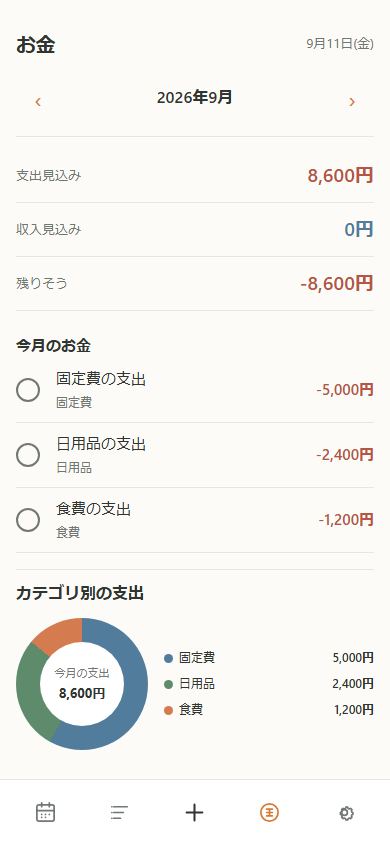
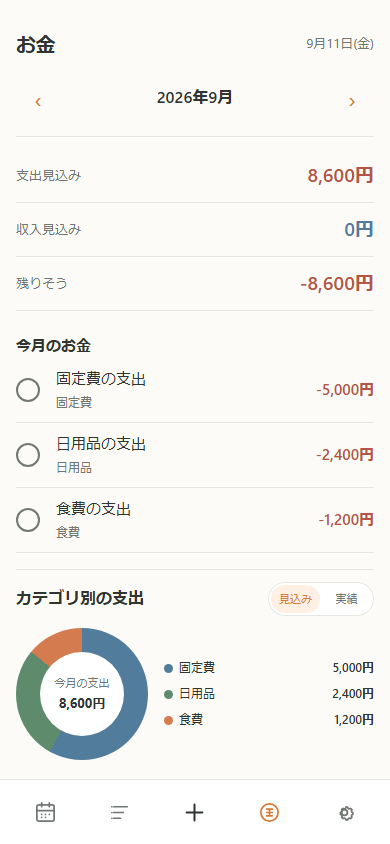
feat: add money chart forecast actual toggle

diff --git a/src/App.tsx b/src/App.tsx
@@ -525,18 +525,25 @@ function MoneyChoiceSheet({ open, title, options, onClose, onSelect }: { open: b
   return <BottomSheet open={open} title={title} onClose={onClose}><div className="event-option-sheet">{options.map((option) => <button className="event-option-sheet__option" key={option.value} onClick={() => onSelect(option.value)} type="button"><span>{option.label}</span></button>)}</div></BottomSheet>;
 }
 
-export function MoneyCategoryDonut({ occurrences }: { occurrences: MoneyItem[] }) {
-  const groups = Array.from(occurrences.filter((item) => item.type === "expense").reduce((map, item) => {
+export type MoneyChartMode = "forecast" | "actual";
+type MoneyCategoryGroup = { amount: number; color: string; colorKey: string; name: string };
+
+export const moneyCategoryGroupsFor = (occurrences: MoneyItem[], mode: MoneyChartMode = "forecast"): MoneyCategoryGroup[] => Array.from(occurrences.filter((item) => item.type === "expense" && (mode === "forecast" || item.settlementStatus === "actual" || item.settlementStatus === "estimated_actual")).reduce((map, item) => {
     const key = item.category?.id ?? item.category?.name ?? "other";
     const current = map.get(key) ?? { amount: 0, color: moneyCategoryColor(item.category), colorKey: moneyCategoryColorKey(item.category), name: item.category?.name ?? "その他" };
     current.amount += Math.abs(item.effectiveAmount ?? item.signedAmount ?? item.plannedAmount);
     map.set(key, current);
     return map;
-  }, new Map<string, { amount: number; color: string; colorKey: string; name: string }>()).values()).sort((left, right) => right.amount - left.amount);
+  }, new Map<string, MoneyCategoryGroup>()).values()).sort((left, right) => right.amount - left.amount);
+
+export function MoneyCategoryDonut({ occurrences }: { occurrences: MoneyItem[] }) {
+  const [mode, setMode] = useState<MoneyChartMode>("forecast");
+  const groups = moneyCategoryGroupsFor(occurrences, mode);
   const total = groups.reduce((sum, group) => sum + group.amount, 0);
-  if (total === 0) return <section className="money-chart-section"><h2>カテゴリ別の支出</h2><p className="empty-state">まだ支出はありません</p></section>;
+  const centerLabel = mode === "forecast" ? "今月の支出" : "確定した支出";
+  if (total === 0) return <section className="money-chart-section"><div className="money-chart-section__heading"><h2>カテゴリ別の支出</h2><div aria-label="カテゴリ別の支出表示" className="money-chart-mode-switch" role="group"><button aria-pressed={mode === "forecast"} onClick={() => setMode("forecast")} type="button">見込み</button><button aria-pressed={mode === "actual"} onClick={() => setMode("actual")} type="button">実績</button></div></div><p className="empty-state">{mode === "actual" ? "まだ確定した支出はありません" : "まだ支出はありません"}</p></section>;
   const gradient = groups.reduce<{ cursor: number; parts: string[] }>((result, group) => { const next = result.cursor + (group.amount / total) * 100; result.parts.push(`${group.color} ${result.cursor}% ${next}%`); result.cursor = next; return result; }, { cursor: 0, parts: [] }).parts.join(", ");
-  return <section className="money-chart-section"><h2>カテゴリ別の支出</h2><div className="money-chart"><div aria-label={`今月の支出 ${total.toLocaleString("ja-JP")}円`} className="money-donut" style={{ "--money-donut": `conic-gradient(${gradient})` } as CSSProperties}><div className="money-donut__label"><span>今月の支出</span><strong>{total.toLocaleString("ja-JP")}円</strong></div></div><div className="money-chart__legend">{groups.map((group) => <div key={group.name}><span className="money-chart__legend-dot" data-color-key={group.colorKey} data-testid="money-chart-legend-dot" style={{ backgroundColor: group.color }} /><span>{group.name}</span><strong>{group.amount.toLocaleString("ja-JP")}円</strong></div>)}</div></div></section>;
+  return <section className="money-chart-section"><div className="money-chart-section__heading"><h2>カテゴリ別の支出</h2><div aria-label="カテゴリ別の支出表示" className="money-chart-mode-switch" role="group"><button aria-pressed={mode === "forecast"} onClick={() => setMode("forecast")} type="button">見込み</button><button aria-pressed={mode === "actual"} onClick={() => setMode("actual")} type="button">実績</button></div></div><div className="money-chart"><div aria-label={`${centerLabel} ${total.toLocaleString("ja-JP")}円`} className="money-donut" data-mode={mode} style={{ "--money-donut": `conic-gradient(${gradient})` } as CSSProperties}><div className="money-donut__label"><span>{centerLabel}</span><strong>{total.toLocaleString("ja-JP")}円</strong></div></div><div className="money-chart__legend">{groups.map((group) => <div key={group.name}><span className="money-chart__legend-dot" data-color-key={group.colorKey} data-testid="money-chart-legend-dot" style={{ backgroundColor: group.color }} /><span>{group.name}</span><strong>{group.amount.toLocaleString("ja-JP")}円</strong></div>)}</div></div></section>;
 }
 
 export function MoneyForm({ initialDate, item, scope = "series", onCancel, onSaved, onDelete, suppressInitialRecentOpen = true }: { initialDate: string; item?: MoneyItem; scope?: EventScope; onCancel: () => void; onSaved: (item: MoneyItem) => void; onDelete?: () => void; suppressInitialRecentOpen?: boolean }) {

diff --git a/e2e/money-category-colors.spec.ts b/e2e/money-category-colors.spec.ts
@@ -22,6 +22,12 @@ async function register(page: import("@playwright/test").Page) {
 async function createExpense(page: import("@playwright/test").Page, categoryId: string, title: string, amount: number, date: string) {
   const response = await page.request.post("/api/money", { data: { type: "expense", title, plannedAmount: amount, categoryId, date, memo: null, recurrence: null } });
   expect(response.ok()).toBeTruthy();
+  return (await response.json() as { money: { id: string } }).money.id;
+}
+
+async function setActual(page: import("@playwright/test").Page, moneyId: string, date: string, amount: number) {
+  const response = await page.request.put(`/api/money/${moneyId}/occurrences/money:${moneyId}:${date}/actual`, { data: { amount } });
+  expect(response.ok()).toBeTruthy();
 }
 
 async function showMoneyChart(page: import("@playwright/test").Page) {
@@ -40,12 +46,12 @@ test("keeps Money category colors distinct and stable across UI surfaces", async
   const categories = (await categoriesResponse.json() as { categories: Array<{ id: string; name: string }> }).categories;
   const categoryId = (name: string) => categories.find((category) => category.name === name)?.id ?? (() => { throw new Error(`missing category: ${name}`); })();
 
-  await createExpense(page, categoryId("食費"), "食費の支出", 1200, date);
+  const foodId = await createExpense(page, categoryId("食費"), "食費の支出", 1200, date);
   let chart = await showMoneyChart(page);
   await expect(chart.locator(".money-chart__legend > div")).toHaveCount(1);
   await page.screenshot({ path: path.join(evidenceDir, "one-category-food-390x844.png") });
 
-  await createExpense(page, categoryId("固定費"), "固定費の支出", 5000, date);
+  const fixedId = await createExpense(page, categoryId("固定費"), "固定費の支出", 5000, date);
   await page.reload();
   chart = await showMoneyChart(page);
   await expect(chart.locator(".money-chart__legend > div")).toHaveCount(2);
@@ -75,9 +81,31 @@ test("keeps Money category colors distinct and stable across UI surfaces", async
 
   await page.getByRole("button", { name: "お金" }).last().click();
   chart = await showMoneyChart(page);
+  await chart.getByRole("button", { name: "実績" }).click();
+  await expect(chart.getByText("まだ確定した支出はありません")).toBeVisible();
+  await page.screenshot({ path: path.join(evidenceDir, "actual-empty-390x844.png") });
+
+  await setActual(page, foodId, date, 1000);
+  await setActual(page, fixedId, date, 4500);
+  await page.reload();
+  chart = await showMoneyChart(page);
+  await chart.getByRole("button", { name: "実績" }).click();
+  await expect(chart.locator(".money-donut")).toHaveAttribute("data-mode", "actual");
+  await expect(chart.locator(".money-donut")).toHaveAttribute("aria-label", "確定した支出 5,500円");
+  await expect(chart.locator(".money-chart__legend > div")).toHaveCount(2);
+  await expect(chart.locator(".money-chart__legend > div").filter({ hasText: "食費" }).locator(".money-chart__legend-dot")).toHaveAttribute("data-color-key", "orange");
+  await expect(chart.locator(".money-chart__legend > div").filter({ hasText: "固定費" }).locator(".money-chart__legend-dot")).toHaveAttribute("data-color-key", "blue");
+  await expect(chart.getByText("日用品")).not.toBeVisible();
+  await page.screenshot({ path: path.join(evidenceDir, "actual-food-fixed-390x844.png") });
+
+  await page.getByRole("button", { name: "お金" }).last().click();
+  chart = await showMoneyChart(page);
+  await chart.getByRole("button", { name: "見込み" }).click();
+  await expect(chart.locator(".money-chart__legend-dot")).toHaveCount(3);
   const beforeReload = await chart.locator(".money-chart__legend-dot").evaluateAll((dots) => dots.map((dot) => dot.getAttribute("data-color-key")));
   await page.reload();
   chart = await showMoneyChart(page);
+  await expect(chart.locator(".money-chart__legend-dot")).toHaveCount(3);
   const afterReload = await chart.locator(".money-chart__legend-dot").evaluateAll((dots) => dots.map((dot) => dot.getAttribute("data-color-key")));
   expect(afterReload).toEqual(beforeReload);
   const currentMonth = await page.locator(".money-month-nav h2").textContent();

diff --git a/src/App.test.tsx b/src/App.test.tsx
@@ -54,6 +54,41 @@ describe("Money category donut colors", () => {
   });
 });
 
+describe("Money category donut modes", () => {
+  const food = { id: "food", userId: "user-1", type: "expense" as const, name: "食費", colorKey: "orange", sortOrder: 0, active: true, createdAt: "", updatedAt: "" };
+  const fixed = { id: "fixed", userId: "user-1", type: "expense" as const, name: "固定費", colorKey: "blue", sortOrder: 1, active: true, createdAt: "", updatedAt: "" };
+  const daily = { id: "daily", userId: "user-1", type: "expense" as const, name: "日用品", colorKey: "green", sortOrder: 2, active: true, createdAt: "", updatedAt: "" };
+  const entertainment = { id: "entertainment", userId: "user-1", type: "expense" as const, name: "娯楽", colorKey: "pink", sortOrder: 3, active: true, createdAt: "", updatedAt: "" };
+
+  it("defaults to forecast, includes planned amounts, and switches actual aggregation", () => {
+    render(<MoneyCategoryDonut occurrences={[
+      moneyItem({ id: "planned-food", categoryId: food.id, category: food, plannedAmount: 1000, effectiveAmount: 1000, settlementStatus: null }),
+      moneyItem({ id: "actual-food", categoryId: food.id, category: food, plannedAmount: 700, effectiveAmount: 500, settlementStatus: "actual" }),
+      moneyItem({ id: "actual-fixed", categoryId: fixed.id, category: fixed, plannedAmount: 2000, effectiveAmount: 1800, settlementStatus: "actual" }),
+      moneyItem({ id: "estimated-daily", categoryId: daily.id, category: daily, plannedAmount: 3000, effectiveAmount: 2500, settlementStatus: "estimated_actual" }),
+      moneyItem({ id: "planned-entertainment", categoryId: entertainment.id, category: entertainment, plannedAmount: 1000, effectiveAmount: 1000, settlementStatus: null }),
+      moneyItem({ id: "income", type: "income", categoryId: "income", plannedAmount: 9000, effectiveAmount: 9000, settlementStatus: "actual" })
+    ]} />);
+
+    expect(screen.getByRole("button", { name: "見込み" })).toHaveAttribute("aria-pressed", "true");
+    expect(screen.getByLabelText("今月の支出 6,800円")).toBeInTheDocument();
+    expect(screen.getAllByTestId("money-chart-legend-dot")).toHaveLength(4);
+    fireEvent.click(screen.getByRole("button", { name: "実績" }));
+    expect(screen.getByRole("button", { name: "実績" })).toHaveAttribute("aria-pressed", "true");
+    expect(screen.getByLabelText("確定した支出 4,800円")).toBeInTheDocument();
+    expect(screen.getAllByTestId("money-chart-legend-dot")).toHaveLength(3);
+    expect(screen.queryByText("娯楽")).not.toBeInTheDocument();
+    expect(screen.getAllByTestId("money-chart-legend-dot").map((dot) => dot.getAttribute("data-color-key"))).toEqual(expect.arrayContaining(["orange", "blue", "green"]));
+  });
+
+  it("shows the actual empty state when no occurrence is settled", () => {
+    render(<MoneyCategoryDonut occurrences={[moneyItem({ category: food, effectiveAmount: 1000, settlementStatus: null })]} />);
+    fireEvent.click(screen.getByRole("button", { name: "実績" }));
+    expect(screen.getByText("まだ確定した支出はありません")).toBeInTheDocument();
+    expect(screen.queryByLabelText(/確定した支出/)).not.toBeInTheDocument();
+  });
+});
+
 describe("LifeHub M2 shell", () => {
   beforeEach(() => {
     window.history.pushState({}, "", "/calendar");

diff --git a/src/styles.css b/src/styles.css
@@ -352,6 +352,10 @@ button:focus-visible, input:focus-visible { outline: 3px solid color-mix(in srgb
 .money-inline-detail__memo { white-space: pre-wrap; }
 .money-chart-section { display: grid; gap: var(--space-3); padding-top: var(--space-3); border-top: 1px solid var(--color-border); }
 .money-chart-section h2 { margin: 0; font-size: 1rem; font-weight: 600; }
+.money-chart-section__heading { display: flex; align-items: center; justify-content: space-between; gap: var(--space-2); }
+.money-chart-mode-switch { display: inline-grid; grid-template-columns: repeat(2, minmax(0, 1fr)); gap: 2px; padding: 2px; border: 1px solid var(--color-border); border-radius: 999px; background: var(--color-surface); }
+.money-chart-mode-switch button { min-height: 28px; padding: 3px 8px; border: 0; border-radius: 999px; color: var(--color-text-secondary); background: transparent; font: inherit; font-size: .6875rem; cursor: pointer; }
+.money-chart-mode-switch button[aria-pressed="true"] { color: var(--color-primary-strong); background: var(--color-primary-soft); }
 .money-chart { display: grid; grid-template-columns: 132px minmax(0, 1fr); gap: var(--space-4); align-items: center; }
 .money-donut { display: grid; width: 132px; height: 132px; place-items: center; border-radius: 50%; background: var(--money-donut); }
 .money-donut::after { width: 84px; height: 84px; border-radius: 50%; background: var(--color-surface); content: ""; grid-area: 1 / 1; }
